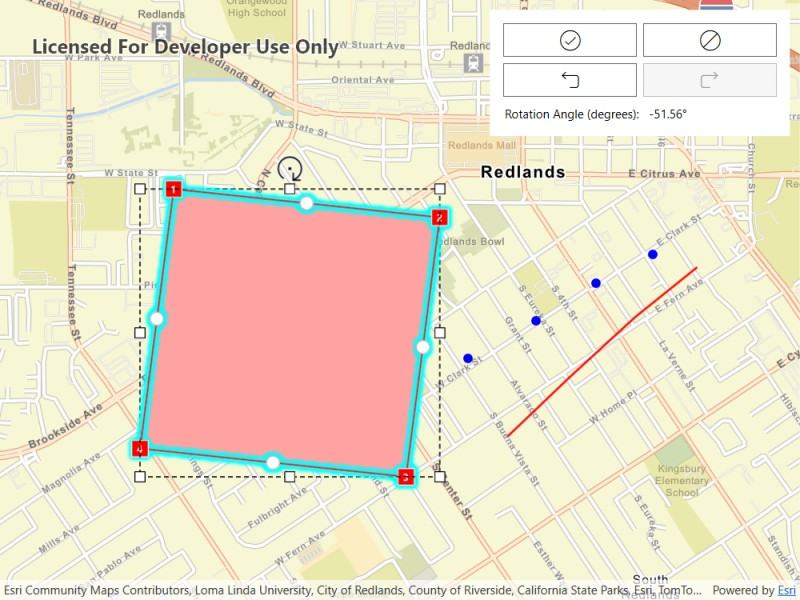
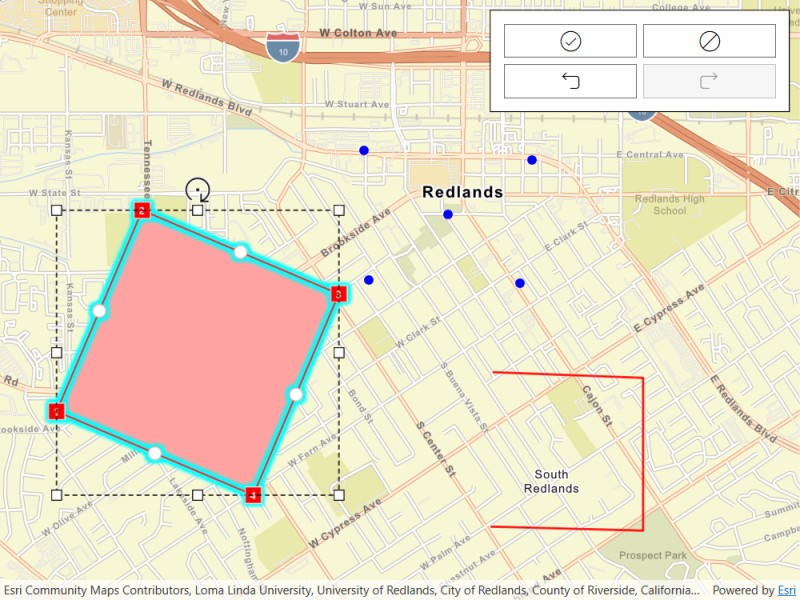
Updated sample and readme

diff --git a/src/WPF/WPF.Viewer/Samples/Geometry/DisplayGeometryEditorInformationDuringInteraction/DisplayGeometryEditorInformationDuringInteraction.xaml b/src/WPF/WPF.Viewer/Samples/Geometry/DisplayGeometryEditorInformationDuringInteraction/DisplayGeometryEditorInformationDuringInteraction.xaml
@@ -24,7 +24,7 @@
     </UserControl.Resources>
     <Grid>
         <esri:MapView x:Name="MyMapView"/>
-        <Border HorizontalAlignment="Right" VerticalAlignment="Top" Margin="10" Background="White" Padding="10" Width="300">
+        <Border HorizontalAlignment="Right" VerticalAlignment="Top" Margin="10" Background="White" Padding="10" Width="300" BorderThickness="1" BorderBrush="Black">
             <Grid>
                 <Label Content="Tap a graphic to start the geometry editor."
                        Visibility="{Binding GeometryEditor.IsStarted,
@@ -54,7 +54,7 @@
                             <ColumnDefinition Width="*"/>
                         </Grid.ColumnDefinitions>
                         <Label x:Name="InteractionPreviewDescriptionLabel" Grid.Column="0"/>
-                        <Label x:Name="InteractionPreviewValueLabel" Grid.Column="1"/>
+                        <Label x:Name="InteractionPreviewValueLabel" Grid.Column="1" />
                     </Grid>
                 </StackPanel>
             </Grid>

diff --git a/src/WPF/WPF.Viewer/Samples/Geometry/DisplayGeometryEditorInformationDuringInteraction/DisplayGeometryEditorInformationDuringInteraction.xaml.cs b/src/WPF/WPF.Viewer/Samples/Geometry/DisplayGeometryEditorInformationDuringInteraction/DisplayGeometryEditorInformationDuringInteraction.xaml.cs
@@ -25,7 +25,7 @@ namespace ArcGIS.WPF.Samples.DisplayGeometryEditorInformationDuringInteraction
         category: "Geometry",
         description: "Use the geometry editor to see information about the geometry editor's previewed geometry during an editing interaction.",
         instructions: "Tap a graphic to edit its geometry by moving, rotating, or scaling the geometry. During the interaction, information about the geometry will be displayed to provide feedback to the user.",
-        tags: new[] { "draw", "edit", "geometry editor" })]
+        tags: new[] { "draw", "edit", "geometry editor", "interaction preview" })]
     [ArcGIS.Samples.Shared.Attributes.OfflineData()]
     public partial class DisplayGeometryEditorInformationDuringInteraction
     {
@@ -35,31 +35,15 @@ namespace ArcGIS.WPF.Samples.DisplayGeometryEditorInformationDuringInteraction
         // Create a variable to hold the graphic being edited.
         private Graphic _editingGraphic;
 
+        // Create the initial viewpoint.
+        private readonly Viewpoint _initialViewpoint = Viewpoint.FromJson(@"{""rotation"":0.0,""scale"":17000,""targetGeometry"":{""spatialReference"":{""wkid"":3857},""x"":-13045202.018086127,""y"":4035612.571361517}}");
+
         // Create a polygon, polyline, and multipoint in Redlands, California.
-        private readonly Polygon _redlandsPolygon = new(
-        [
-            new MapPoint(-117.195800, 34.046295),
-            new MapPoint(-117.195800, 34.056295),
-            new MapPoint(-117.184000, 34.056295),
-            new MapPoint(-117.184000, 34.046295)
-        ], SpatialReferences.Wgs84);
+        private readonly Polygon _redlandsPolygon = Polygon.FromJson(@"{""rings"":[[[-13046991.222211758,4034618.5047884779],[-13046991.222211758,4035962.0723415823],[-13045677.652220398,4035962.0723415823],[-13045677.652220398,4034618.5047884779],[-13046991.222211758,4034618.5047884779]]],""spatialReference"":{""wkid"":3857}}") as Polygon;
 
-        private readonly Polyline _redlandsPolyline = new(
-        [
-            new MapPoint(-117.183200, 34.047200),
-            new MapPoint(-117.180800, 34.049100),
-            new MapPoint(-117.178300, 34.051000),
-            new MapPoint(-117.175900, 34.052600)
-        ], SpatialReferences.Wgs84);
+        private readonly Polyline _redlandsPolyline = Polyline.FromJson(@"{""paths"":[[[-13044533.805088846,4034221.5100018946],[-13043597.938505623,4034197.1337576872],[-13043597.938505623,4035135.572073034],[-13044522.634505576,4035170.5449295067]]],""spatialReference"":{""wkid"":3857}}") as Polyline;
 
-        private readonly Multipoint _redlandsMultipoint = new(
-        [
-            new MapPoint(-117.186900, 34.048300),
-            new MapPoint(-117.184700, 34.049700),
-            new MapPoint(-117.182100, 34.050900),
-            new MapPoint(-117.179800, 34.052100),
-            new MapPoint(-117.177600, 34.053000)
-        ], SpatialReferences.Wgs84);
+        private readonly Multipoint _redlandsMultipoint = Multipoint.FromJson(@"{""points"":[[-13045283.292102993,4035739.1925106063],[-13045314.922186911,4036533.8852012255],[-13044798.24723932,4036138.7808295386],[-13044354.514637273,4035719.3623426706],[-13044281.57229173,4036473.0999132735]],""spatialReference"":{""wkid"":3857}}") as Multipoint;
 
         public DisplayGeometryEditorInformationDuringInteraction()
         {
@@ -70,29 +54,26 @@ namespace ArcGIS.WPF.Samples.DisplayGeometryEditorInformationDuringInteraction
         private async Task Initialize()
         {
             // Create a new map with the streets basemap.
-            Map myMap = new Map(BasemapStyle.ArcGISStreets);
+            Map myMap = new(BasemapStyle.ArcGISStreets);
 
             // Create a new graphics overlay and add it to the map view.
             GraphicsOverlay myGraphicsOverlay = new();
             MyMapView.GraphicsOverlays.Add(myGraphicsOverlay);
 
-            // Create a simple line symbol for the geometry editor.
+            // Create a symbols for the geometry editor.
             SimpleLineSymbol lineSymbol = new(SimpleLineSymbolStyle.Solid, System.Drawing.Color.Red, 2);
+            SimpleMarkerSymbol markerSymbol = new SimpleMarkerSymbol(SimpleMarkerSymbolStyle.Circle, System.Drawing.Color.Blue, 8);
 
-            // TODO: Planned change to no longer require this projection, remove the projection after change has been implemented.
-            var polygonGraphic = new Graphic(GeometryEngine.Project(_redlandsPolygon, SpatialReferences.WebMercator), lineSymbol);
-            var polylineGraphic = new Graphic(GeometryEngine.Project(_redlandsPolyline, SpatialReferences.WebMercator), lineSymbol);
-            var multipointGraphic = new Graphic(GeometryEngine.Project(_redlandsMultipoint, SpatialReferences.WebMercator), new SimpleMarkerSymbol(SimpleMarkerSymbolStyle.Circle, System.Drawing.Color.Blue, 8));
+            // Create graphics for the polygon, polyline, and multipoint.
+            var polygonGraphic = new Graphic(_redlandsPolygon, lineSymbol);
+            var polylineGraphic = new Graphic(_redlandsPolyline, lineSymbol);
+            var multipointGraphic = new Graphic(_redlandsMultipoint, markerSymbol);
 
             // Add the graphics to the graphics overlay.
-            myGraphicsOverlay.Graphics.AddRange([multipointGraphic, polygonGraphic, polylineGraphic]);
+            myGraphicsOverlay.Graphics.AddRange([ multipointGraphic, polygonGraphic, polylineGraphic ]);
 
-            // Set the map's initial viewpoint to the extent of the graphics, expanded by 20%.
-            var graphicsEnvelope = GeometryEngine.Union([polylineGraphic.Geometry.Extent, polygonGraphic.Geometry.Extent, multipointGraphic.Geometry.Extent]);
-            var envelopeBuilder = new EnvelopeBuilder(graphicsEnvelope.Extent);
-            envelopeBuilder.Expand(1.2);
-            var expandedEnvelope = envelopeBuilder.ToGeometry();
-            myMap.InitialViewpoint = new Viewpoint(expandedEnvelope);
+            // Set the map's initial viewpoint.
+            myMap.InitialViewpoint = _initialViewpoint;
 
             // Assign the map to the MapView.
             MyMapView.Map = myMap;
@@ -125,14 +106,17 @@ namespace ArcGIS.WPF.Samples.DisplayGeometryEditorInformationDuringInteraction
             Envelope originalExtent = _geometryEditor.Geometry.Extent;
             Envelope previewExtent = interactionPreview.PreviewGeometry.Extent;
 
-            // Calculate the scale factors for X and Y.
-            double scaleX = previewExtent.Width / originalExtent.Width;
-            double scaleY = previewExtent.Height / originalExtent.Height;
+            if (originalExtent.Width != 0 && originalExtent.Height != 0)
+            {
+                // Calculate the scale factors for X and Y.
+                double scaleX = previewExtent.Width / originalExtent.Width;
+                double scaleY = previewExtent.Height / originalExtent.Height;
 
-            // Update the UI labels with the scale factor information.
-            InteractionPreviewDescriptionLabel.Content = "Scale Factor (X, Y):";
-            InteractionPreviewValueLabel.Content = $"({scaleX:F2}, {scaleY:F2})";
-            InteractionPreviewGrid.Visibility = Visibility.Visible;
+                // Update the UI labels with the scale factor information.
+                InteractionPreviewDescriptionLabel.Content = "Scale Factor (X, Y):";
+                InteractionPreviewValueLabel.Content = $"({scaleX:F2}, {scaleY:F2})";
+                InteractionPreviewGrid.Visibility = Visibility.Visible;
+            }
         }
 
         // Set the rotation angle label based on the interaction preview.
@@ -174,7 +158,7 @@ namespace ArcGIS.WPF.Samples.DisplayGeometryEditorInformationDuringInteraction
                 var dot = vector1X * vector2X + vector1Y * vector2Y;
 
                 double angle = Math.Atan2(cross, dot) * (180.0 / Math.PI); // Convert to degrees
-                InteractionPreviewValueLabel.Content = $"{angle:F2}°";
+                InteractionPreviewValueLabel.Content = $"{-angle:F2}°";
             }
 
             // Update the UI label for rotation angle.
@@ -197,8 +181,8 @@ namespace ArcGIS.WPF.Samples.DisplayGeometryEditorInformationDuringInteraction
         // Handle the InteractionPreviewChanged event to update the UI based on the type of interaction.
         private void GeometryEditor_InteractionPreviewChanged(object sender, GeometryEditorInteractionPreviewEventArgs e)
         {
-            // Check if the interaction preview and its geometry are not null.
-            if (e.InteractionPreview != null && e.InteractionPreview.PreviewGeometry != null && e.InteractionPreview.InteractionElement != null)
+            // Check if the interaction preview is not null.
+            if (e.InteractionPreview != null)
             {
                 // Use a switch statement to determine the type of interaction and update the UI accordingly.
                 switch (e.InteractionPreview.InteractionType)
@@ -213,6 +197,11 @@ namespace ArcGIS.WPF.Samples.DisplayGeometryEditorInformationDuringInteraction
                         Application.Current.Dispatcher.BeginInvoke(new Action(() => SetMovingGeometryLabel(e.InteractionPreview)));
                         break;
                 }
+            }
+            else
+            {
+                // If the interaction preview is null the interaction has finished.
+                Application.Current.Dispatcher.BeginInvoke(new Action(() => InteractionPreviewGrid.Visibility = Visibility.Collapsed));
             }
         }
 

diff --git a/src/WinUI/ArcGIS.WinUI.Viewer/Samples/Geometry/DisplayGeometryEditorInformationDuringInteraction/DisplayGeometryEditorInformationDuringInteraction.xaml.cs b/src/WinUI/ArcGIS.WinUI.Viewer/Samples/Geometry/DisplayGeometryEditorInformationDuringInteraction/DisplayGeometryEditorInformationDuringInteraction.xaml.cs
@@ -29,7 +29,7 @@ namespace ArcGIS.WinUI.Samples.DisplayGeometryEditorInformationDuringInteraction
         category: "Geometry",
         description: "Use the geometry editor to see information about the geometry editor's previewed geometry during an editing interaction.",
         instructions: "Tap a graphic to edit its geometry by moving, rotating, or scaling the geometry. During the interaction, information about the geometry will be displayed to provide feedback to the user.",
-        tags: new[] { "draw", "edit", "geometry editor" })]
+        tags: new[] { "draw", "edit", "geometry editor", "interaction preview" })]
     [ArcGIS.Samples.Shared.Attributes.OfflineData()]
     public partial class DisplayGeometryEditorInformationDuringInteraction
     {

diff --git a/src/MAUI/Maui.Samples/Samples/Geometry/DisplayGeometryEditorInformationDuringInteraction/DisplayGeometryEditorInformationDuringInteraction.xaml.cs b/src/MAUI/Maui.Samples/Samples/Geometry/DisplayGeometryEditorInformationDuringInteraction/DisplayGeometryEditorInformationDuringInteraction.xaml.cs
@@ -29,7 +29,7 @@ namespace ArcGIS.Samples.DisplayGeometryEditorInformationDuringInteraction
         category: "Geometry",
         description: "Use the geometry editor to see information about the geometry editor's previewed geometry during an editing interaction.",
         instructions: "Tap a graphic to edit its geometry by moving, rotating, or scaling the geometry. During the interaction, information about the geometry will be displayed to provide feedback to the user.",
-        tags: new[] { "draw", "edit", "geometry editor" })]
+        tags: new[] { "draw", "edit", "geometry editor", "interaction preview" })]
     [ArcGIS.Samples.Shared.Attributes.OfflineData()]
     public partial class DisplayGeometryEditorInformationDuringInteraction
     {

diff --git a/src/MAUI/Maui.Samples/Samples/Geometry/DisplayGeometryEditorInformationDuringInteraction/readme.md b/src/MAUI/Maui.Samples/Samples/Geometry/DisplayGeometryEditorInformationDuringInteraction/readme.md
@@ -37,9 +37,11 @@ Use the buttons in the settings view to undo or redo changes made to the geometr
 
 * Geometry
 * GeometryEditor
+* GeometryEditorInteractionPreview
+* GeometryEditorInteractionType
+* GeometryEditor.InteractionPreviewChanged
 * Graphic
 * GraphicsOverlay
-* MapView
 
 ## Additional information
 
@@ -47,4 +49,4 @@ The `GeometryEditor.InteractionPreviewChanged` event fires continuously during a
 
 ## Tags
 
-draw, edit, geometry editor
+draw, edit, geometry editor, interaction preview

diff --git a/src/WPF/WPF.Viewer/Samples/Geometry/DisplayGeometryEditorInformationDuringInteraction/readme.md b/src/WPF/WPF.Viewer/Samples/Geometry/DisplayGeometryEditorInformationDuringInteraction/readme.md
@@ -37,9 +37,11 @@ Use the buttons in the settings view to undo or redo changes made to the geometr
 
 * Geometry
 * GeometryEditor
+* GeometryEditorInteractionPreview
+* GeometryEditorInteractionType
+* GeometryEditor.InteractionPreviewChanged
 * Graphic
 * GraphicsOverlay
-* MapView
 
 ## Additional information
 
@@ -47,4 +49,4 @@ The `GeometryEditor.InteractionPreviewChanged` event fires continuously during a
 
 ## Tags
 
-draw, edit, geometry editor
+draw, edit, geometry editor, interaction preview

diff --git a/src/WinUI/ArcGIS.WinUI.Viewer/Samples/Geometry/DisplayGeometryEditorInformationDuringInteraction/readme.md b/src/WinUI/ArcGIS.WinUI.Viewer/Samples/Geometry/DisplayGeometryEditorInformationDuringInteraction/readme.md
@@ -37,9 +37,11 @@ Use the buttons in the settings view to undo or redo changes made to the geometr
 
 * Geometry
 * GeometryEditor
+* GeometryEditorInteractionPreview
+* GeometryEditorInteractionType
+* GeometryEditor.InteractionPreviewChanged
 * Graphic
 * GraphicsOverlay
-* MapView
 
 ## Additional information
 
@@ -47,4 +49,4 @@ The `GeometryEditor.InteractionPreviewChanged` event fires continuously during a
 
 ## Tags
 
-draw, edit, geometry editor
+draw, edit, geometry editor, interaction preview
